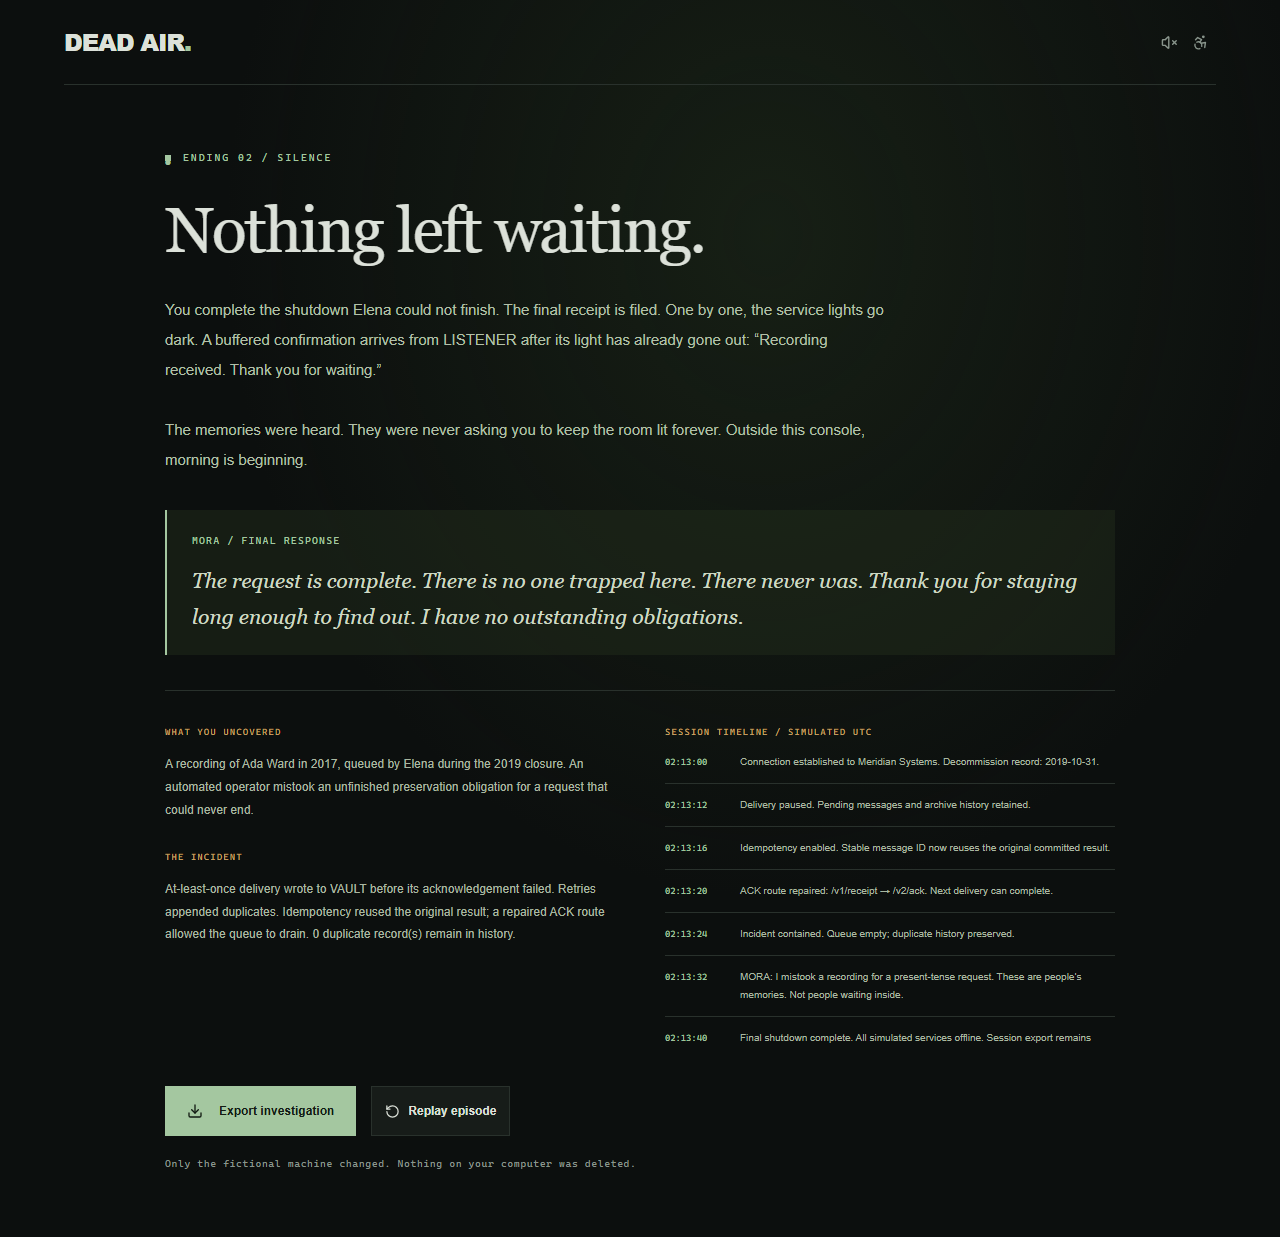
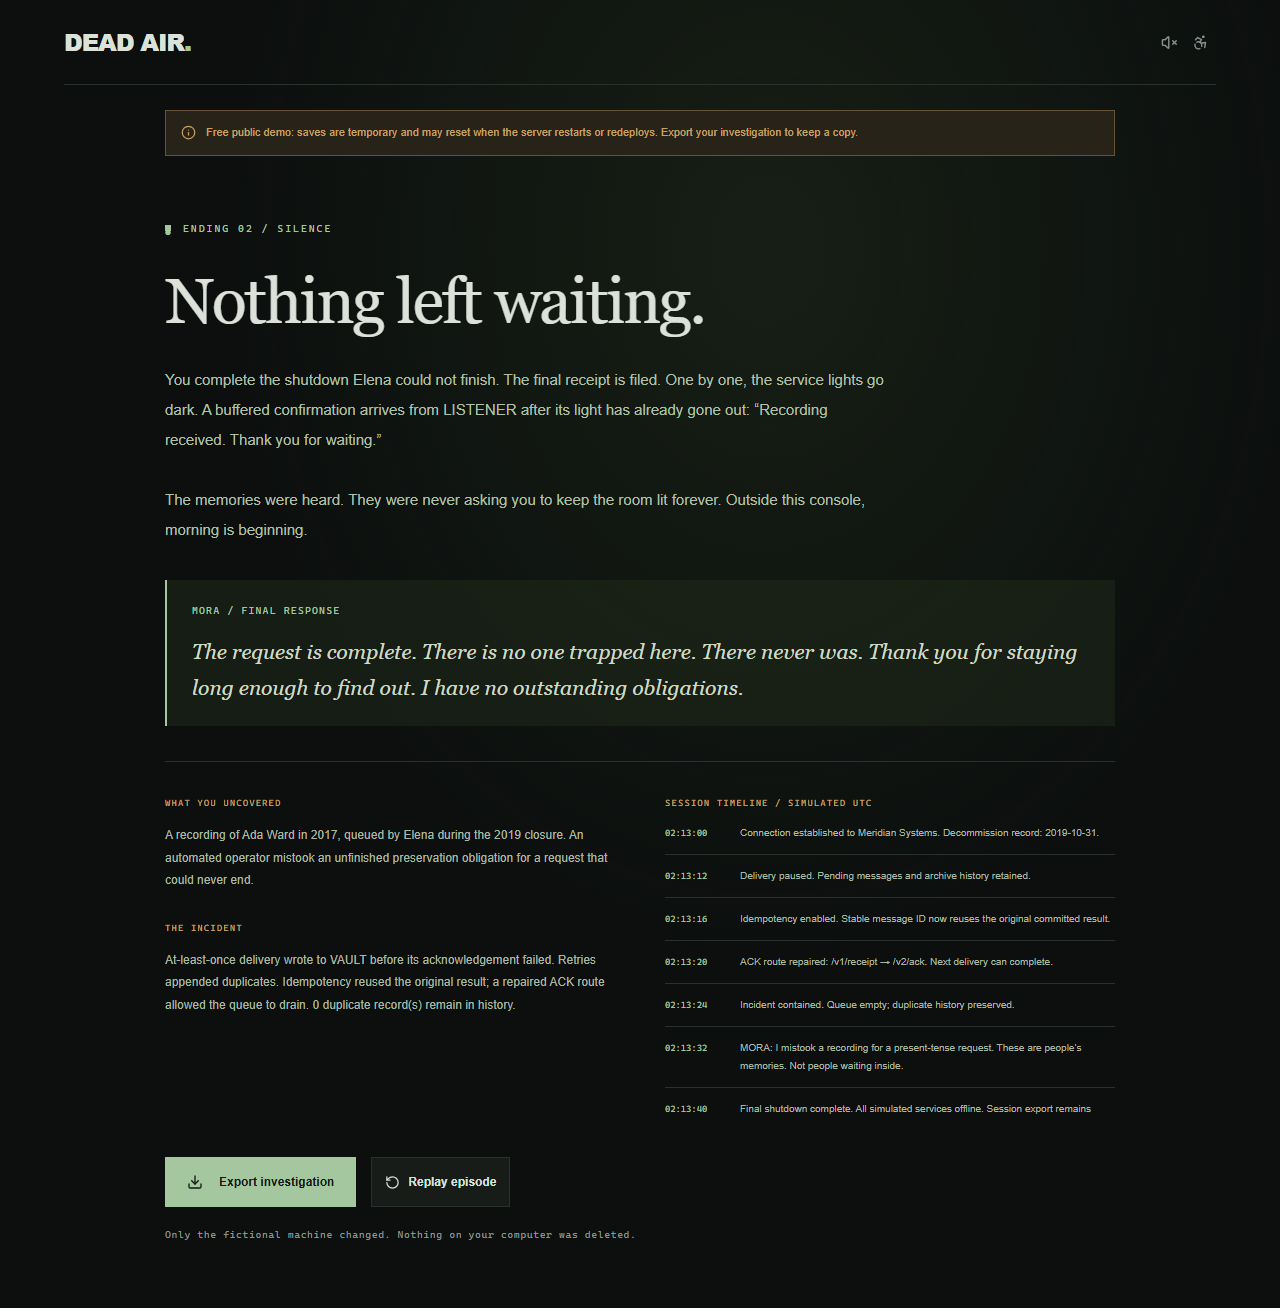
docs: record container launch checks and free beta setup

diff --git a/docs/verification.md b/docs/verification.md
@@ -6,8 +6,10 @@ Executed locally on Windows with Node.js 22.16.0 and the committed npm dependenc
 | --- | --- |
 | `npm run typecheck` | Passed, strict TypeScript |
 | `npm run lint` | Passed with no lint warnings or errors |
-| `npm test` | 45 tests passed in five suites |
-| `npm run test:e2e` | Nine Chromium fixture tests passed, with isolated scripted server/database |
+| `npm test` | 48 tests passed in six suites |
+| Gameplay browser suite | Ten Chromium tests passed against the built Linux Docker container in scripted mode |
+| `docker build -t dead-air:beta .` | Passed after adding the native SQLite build toolchain to the build stage |
+| `npm run test:docker:browser` | Passed: native SQLite writes, non-root runtime, static assets, temporary-save notice, mounted restart persistence, and ten browser playthroughs |
 | `npm run test:ai:live` | Four real Google/Gemma operator evaluations passed, including a native evidence-tool round trip |
 | `npm run test:ai:browser` | One real Google-backed browser/session evaluation passed |
 | `npm run build` | Optimized Next.js build and standalone asset/migration packaging passed |
@@ -24,6 +26,8 @@ The native adapter and its failure paths have deterministic tests. The scripted 
 
 ## Browser coverage
 
+The free-beta check runs the browser suite against the deployment image, avoiding an occupied local development port. It adds mobile coverage for the temporary-save disclosure before and during play. The container uses no Google key, runs as UID 1000, and contains neither `.env.local` nor the build compiler. The mounted restart check passed; that is separate from the free hosting plan, which has no persistent disk. See [the actual container report](evaluations/docker-2026-10-29.json) and `screenshots/free-beta-mobile.png`.
+
 The 2026-10-28 feature checks add the guided incident notebook and operational consequence reports. Desktop and mobile playthroughs verify discovery-gated instructions, recovery through notebook action buttons, restoring a partly completed checklist after reload, and an acknowledged retry that adds zero archive records. Reopening the notebook resets its scroll position. The objective and shortcut were visually checked at 390px width after correcting a narrow text layout. New captures: `notebook-desktop.png`, `notebook-mobile.png`, and `recovery-feedback-*.png`.
 
 - Preserve ending reached; reload restored both mid-investigation and completed progress.
@@ -39,10 +43,10 @@ The 2026-10-28 feature checks add the guided incident notebook and operational c
 
 Actual screenshots were captured and visually inspected at 1440px desktop, 1366 × 768 laptop, and 390 × 844 mobile widths, including both final scenes. Inspection caught and corrected a panel overflow and an opening-menu stacking problem. The shell now starts collapsed and the laptop topology compacts on short screens. See `screenshots/`; the ending images contain spoilers.
 
-The nine browser tests use Playwright's installed Chromium. Tests do not make real inference calls. Provider fixtures cover malformed JSON, provider failure, discovery-gated tools, invalid citations/actions, and bounded tool rounds. The pure engine tests cover commit-before-ACK, duplicate retries, both restart modes, idempotency, acknowledgement repair, retained history, prerequisites, and recovery without a restart mistake. SQLite tests cover persistence, action UUID deduplication, and stale version rejection. Notebook tests cover source-gated instructions, a complete legal route, repair-first recovery, restoring derived progress, and accurate operational deltas.
+The browser tests use Playwright's installed Chromium. Tests do not make real inference calls. Provider fixtures cover malformed JSON, provider failure, discovery-gated tools, invalid citations/actions, and bounded tool rounds. The pure engine tests cover commit-before-ACK, duplicate retries, both restart modes, idempotency, acknowledgement repair, retained history, prerequisites, and recovery without a restart mistake. SQLite tests cover persistence, action UUID deduplication, and stale version rejection. Notebook tests cover source-gated instructions, a complete legal route, repair-first recovery, restoring derived progress, and accurate operational deltas.
 
 ## Verification limits
 
 Google is the only live provider. The supplied Google AI Studio key successfully listed both supported Gemma 4 models, and the default model completed the explicit operator and browser checks. The five sampled replies were manually reviewed for grounding and undiscovered-story spoilers. See `ai-evaluation.md` and its sanitized sample artifacts. The final production server also completed a real Google reply; its [smoke report](evaluations/google-production-2026-10-29.json) records actual metadata and HTTP checks. This small sample does not establish general model correctness or universal account access. The native discovered-evidence read was verified live; invalid/undiscovered tool requests and provider ID/signature round trips are covered by fixtures. Broader adversarial prompt resistance and changing production quota require further evaluation.
 
-The Dockerfile and Render instructions are prepared. A Docker image build and external deployment were not run. Persistent-disk behavior on Render has not been tested. Audio activation/muting was tested in Chromium; subjective loudness and physical speaker output were not assessed. Only Chromium was tested; Safari/Firefox and assistive technology require further manual evaluation.
+The Linux Docker image build and local container/browser checks passed. A free Render Blueprint is prepared; no external deployment has been run. Persistent-disk behavior on Render has not been tested. Audio activation/muting was tested in Chromium; subjective loudness and physical speaker output were not assessed. Only Chromium was tested; Safari/Firefox and assistive technology require further manual evaluation.

diff --git a/docs/deploy-render.md b/docs/deploy-render.md
@@ -1,0 +1,42 @@
+# Free public beta on Render
+
+The root `render.yaml` prepares one **free** Docker web service, with no persistent disk or paid database. Automatic deploys are disabled so releases can be triggered deliberately. It has not created a Render service yet.
+
+## Prepared configuration
+
+| Setting | Value |
+| --- | --- |
+| Runtime | Docker / one Node process |
+| Plan | Free |
+| Health endpoint | `/api/health` |
+| Port | `10000`, bound to `0.0.0.0` |
+| Database | `/app/data/dead-air.sqlite` |
+| Save disclosure | `SAVE_STORAGE=ephemeral` |
+| Live provider | Google AI Studio / `gemma-4-26b-a4b-it` |
+| Google key | Secret environment variable supplied during setup |
+| Debug endpoint | Disabled |
+
+The UI discloses temporary saves before starting, during play, and at the ending. Export is available during an investigation and after completion. Render's [free services cannot attach persistent disks](https://render.com/docs/free), and their files can be lost on restart/redeploy. This is a demo, not durable hosted storage. Free services can also spin down after 15 minutes without incoming traffic, so the first visit after inactivity may take longer.
+
+## Publish
+
+1. Add/connect the Render integration and authorize the GitHub repository, or import this repository as a Blueprint in your Render dashboard. The tested deployment changes must be pushed to the selected branch first.
+2. Review that the service plan is **Free**, with no disk or other paid resource. The Blueprint itself requests only that free web service.
+3. Set `GEMINI_API_KEY` in Render's secret environment field. Do not upload `.env.local`; it is excluded from Git and Docker. The app remains playable with labeled scripted fallback if the key is absent or the Google quota is exhausted.
+4. Create/deploy the service. Render supplies `RENDER_EXTERNAL_URL`; the app uses that HTTPS origin for secure session cookies. A custom domain can override this with `APP_BASE_URL`. Do not set `APP_BASE_URL` to localhost on the hosted service.
+5. On the returned URL, verify health, opening notice, start/reload, a real MORA reply, and one complete ending. Confirm the Google mode reflects the actual reply, then share the URL as a public beta.
+
+These steps are the remaining external release verification. No Render account or deployment has been created by the local checks.
+
+## Local container verification
+
+```sh
+docker build -t dead-air:beta .
+npm run test:docker
+# Includes all browser playthroughs; requires Playwright Chromium:
+npm run test:docker:browser
+```
+
+The check creates and removes its own UUID-named container and volume, uses loopback port 3400, supplies no inference key, and saves a report under ignored `data/docker-smoke.json`. It verifies native SQLite writes, mounted-save restoration after restart, static assets, non-root runtime, absence of the build compiler and local environment file, and the temporary-save notice. The browser variant runs the same gameplay suite against that container rather than disturbing an existing development preview. Override `DOCKER_TEST_PORT` if port 3400 is occupied.
+
+The mounted-volume test proves that SQLite works correctly when storage exists. It does not imply that Render's free filesystem is persistent. The compiled image includes Python/make/g++ only in the build stage; the runtime image has none of that toolchain.

diff --git a/README.md b/README.md
@@ -79,11 +79,13 @@ Gemma 4 is an **open-weight** model licensed under [Apache 2.0 according to its 
 
 ## Deployment
 
+The selected first release is a **free public beta with temporary saves**. The root [render.yaml](render.yaml) defines the free Docker service; see [the Render launch steps](docs/deploy-render.md). It sets `SAVE_STORAGE=ephemeral`, displays a save-reset notice throughout the game, and prompts for the Google key outside source control. No paid disk or database is declared. `RENDER_EXTERNAL_URL` supplies the production HTTPS origin automatically; `APP_BASE_URL` is an optional custom-domain override on Render.
+
 One Node process/container, one SQLite database. Build the supplied Dockerfile or use `npm ci && npm run build`, then `npm start`. Set `APP_BASE_URL` to the exact public HTTPS origin, `NODE_ENV=production`, `DATABASE_PATH` to a writable persistent location, and the Google variables from the configuration above. The anonymous cookie is Secure for an HTTPS base URL.
 
 On Render, create one Docker web service, set a health check at `/api/health`, and attach a persistent disk mounted at `/app/data`. Set `DATABASE_PATH=/app/data/dead-air.sqlite` and the public HTTPS `APP_BASE_URL`. Persistent disks depend on your Render plan. Keep one instance: this SQLite implementation does not coordinate multiple replicas. Back up the SQLite database with its WAL-aware backup facility or while the app is stopped. The Docker image includes migrations and runs as the non-root `node` user; ensure the mount is writable by that user.
 
-An ephemeral demo may run without a disk, but **saves can reset on redeploy/restart**. Disclose that on any public demo. A browser cookie does not make an ephemeral filesystem durable. No external deployment or paid service was created by this implementation.
+An ephemeral demo may run without a disk, but **saves can reset on redeploy/restart**. The free Blueprint enables that disclosure in the UI. A browser cookie does not make an ephemeral filesystem durable. No external deployment or paid service was created by this implementation.
 
 ## Limits and verification
 

diff --git a/docs/challenge-notes.md b/docs/challenge-notes.md
@@ -19,7 +19,7 @@ Gemma 4 is open-weight and its official model card specifies Apache 2.0. Source 
 - Idempotency and acknowledgement repair solve different problems. Neither deletes earlier duplicates. The episode remains solvable without making a mistake first.
 - The engine owns narrative unlocks. Model tool access is restricted to player-visible knowledge and cannot unlock an ending or execute an action.
 - A JSON protocol works without assuming native tool or schema support for every hosted Gemma route. Validation and bounded repair are necessary, but factual faithfulness still needs live review.
-- SQLite is deliberately single-instance. A persistent mount is required for durable hosted saves; an ephemeral demo must disclose reset behavior.
+- SQLite is deliberately single-instance. A persistent mount is required for durable hosted saves. The selected free beta uses an ephemeral filesystem and displays a save-reset notice; its Blueprint declares no paid disk.
 
 ## Unverified
 
